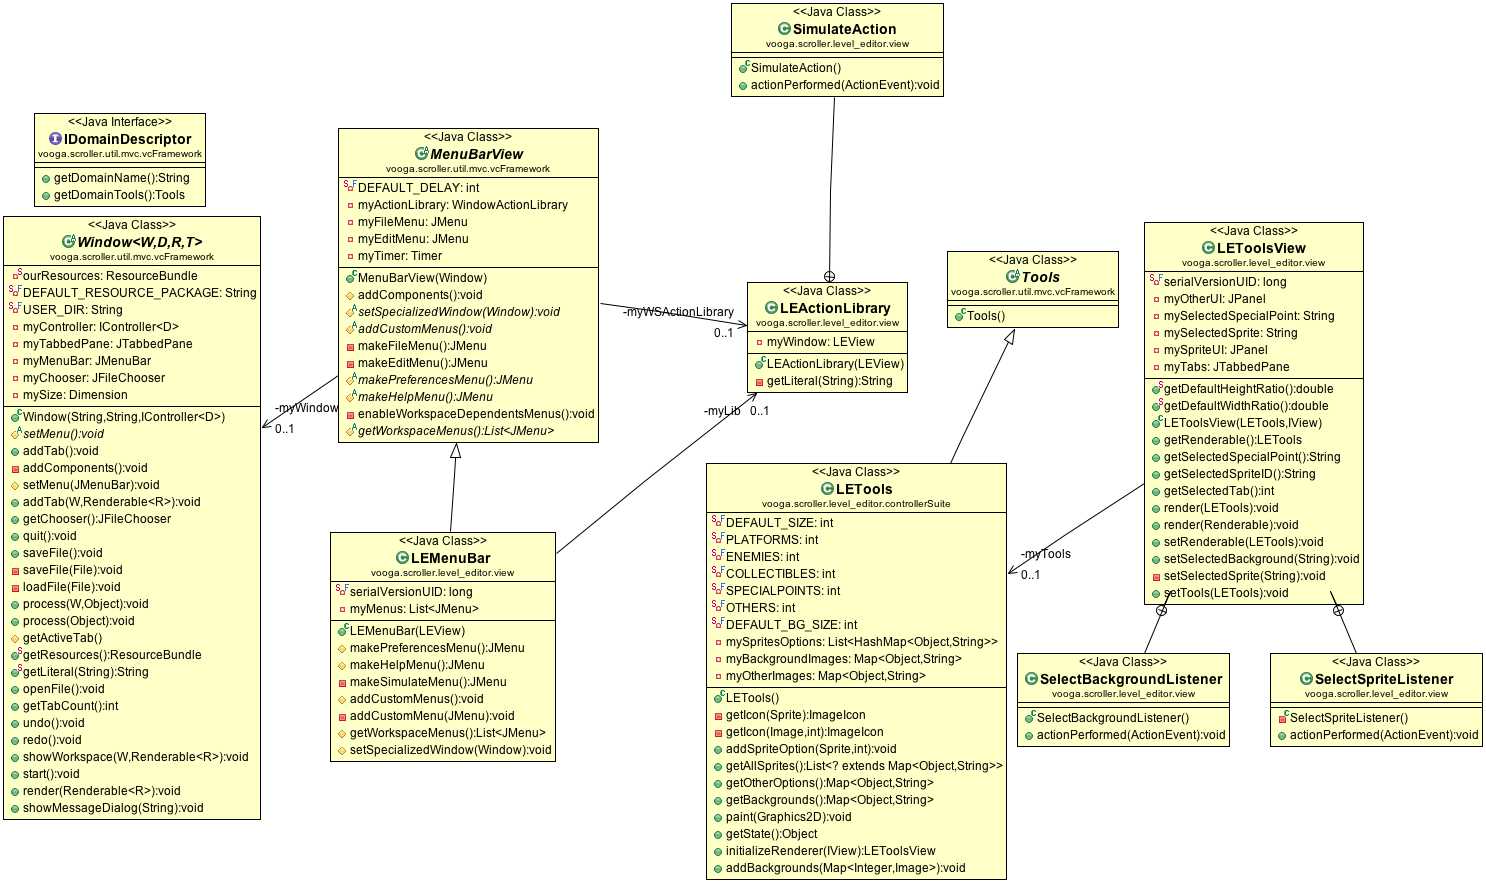
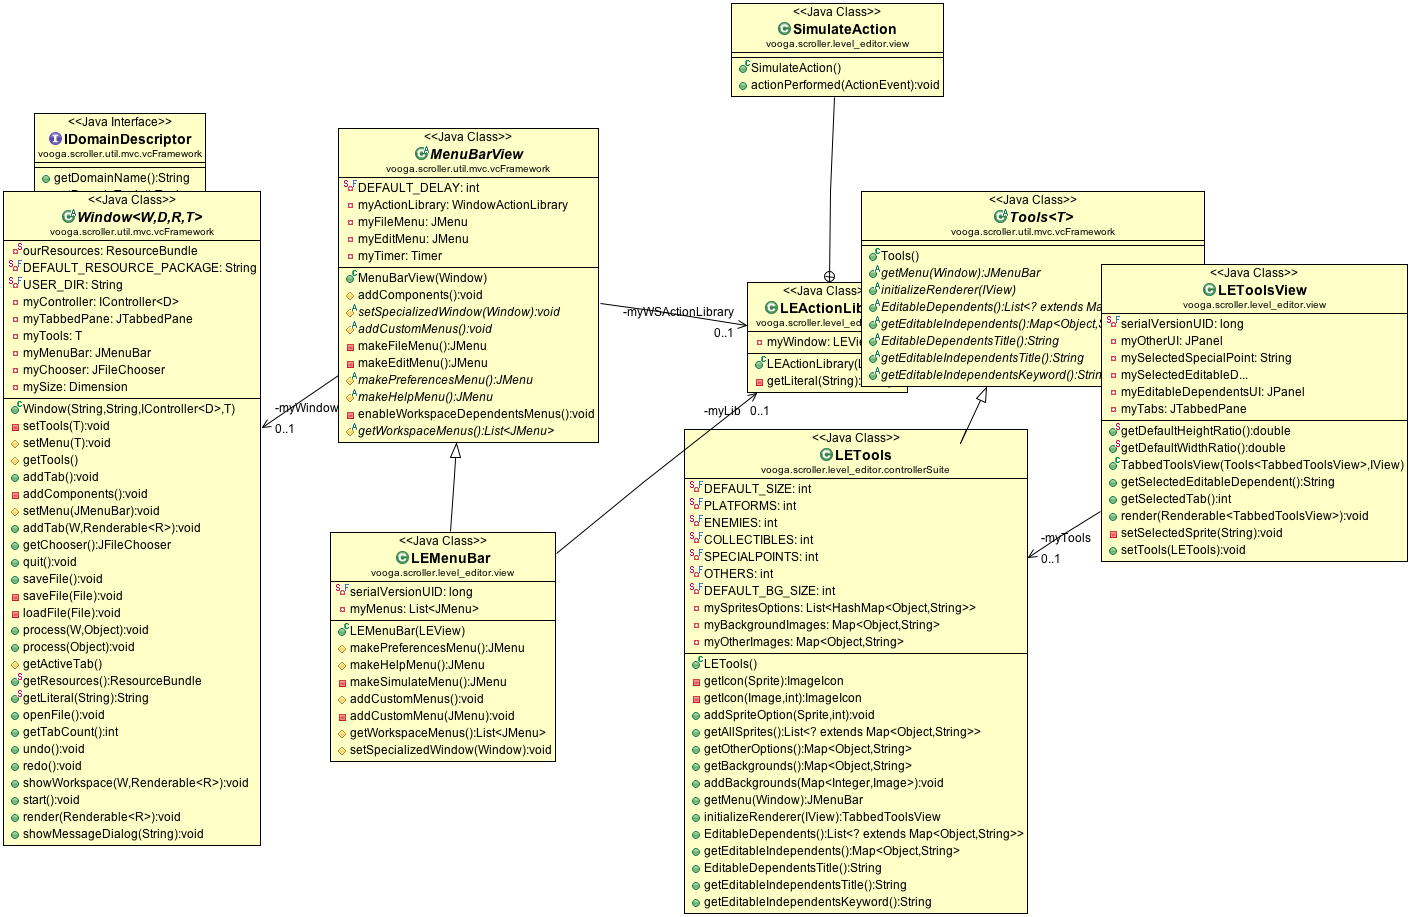
more refactoring and fixed a bug in addPlayer to model

diff --git a/src/vooga/scroller/level_editor/view/TabbedToolsView.java b/src/vooga/scroller/level_editor/view/TabbedToolsView.java
@@ -1,0 +1,155 @@
+package vooga.scroller.level_editor.view;
+
+
+import java.awt.event.ActionEvent;
+import java.awt.event.ActionListener;
+import java.util.Map;
+import javax.swing.BoxLayout;
+import javax.swing.JPanel;
+import javax.swing.JTabbedPane;
+import vooga.scroller.level_editor.controllerSuite.LETools;
+import vooga.scroller.util.Renderable;
+import vooga.scroller.util.Renderer;
+import vooga.scroller.util.mvc.IView;
+import vooga.scroller.util.mvc.vcFramework.Tools;
+import vooga.scroller.util.mvc.vcFramework.WindowComponent;
+import vooga.scroller.viewUtil.EasyGridFactory;
+import vooga.scroller.viewUtil.RadioGroup;
+
+
+/**
+ * EditorView is responsible for presenting editing tools to the user.
+ * It provides a UI for the user to select various kind of sprites or
+ * environment elements and add them to the actual level being edited.
+ * 
+ * @author Dagbedji Fagnisse
+ * 
+ */
+public class TabbedToolsView extends 
+    WindowComponent<TabbedToolsView> 
+    implements Renderer<Tools<TabbedToolsView>>{
+
+    public class EditableIndependentsListener implements ActionListener {
+        String myKeyword;
+        EditableIndependentsListener(String s) {
+            myKeyword = s;
+        }
+        
+        @Override
+        public void actionPerformed (ActionEvent e) {
+            process(myKeyword + " " + e.getActionCommand());
+        }
+
+    }
+
+    private class SelectEditableDependentsListener implements ActionListener {
+
+        @Override
+        public void actionPerformed (ActionEvent e) {
+            setSelectedEditableDependent(e.getActionCommand());
+        }
+
+    }
+
+    private static final long serialVersionUID = 1L;
+
+    public static double getDefaultHeightRatio () {
+        return LevelEditing.VIEW_CONSTANTS.DEFAULT_TOOLSVIEW_HEIGHT_RATIO;
+    }
+
+    public static double getDefaultWidthRatio () {
+        return LevelEditing.VIEW_CONSTANTS.DEFAULT_TOOLSVIEW_WIDTH_RATIO;
+    }
+
+    private JPanel myIndependentsUI;
+
+    private String mySelectedEditableDependent;
+    private JPanel myEditableDependentsUI;
+
+    private JTabbedPane myTabs;
+
+    private Tools<TabbedToolsView> myTools;
+
+    public TabbedToolsView (Tools<TabbedToolsView> leTools, IView parent) {
+        super(parent, getDefaultWidthRatio(), getDefaultHeightRatio());
+        myTabs = new JTabbedPane();
+        myEditableDependentsUI = new JPanel();
+        myEditableDependentsUI.setLayout(new BoxLayout(myEditableDependentsUI, BoxLayout.PAGE_AXIS));
+        myIndependentsUI = new JPanel();
+        render(leTools);
+    }
+
+    public String getSelectedEditableDependent () {
+        return mySelectedEditableDependent;
+    }
+
+    @Override
+    public void render (Renderable<TabbedToolsView> r) { // TODO - Should not really be used/needed
+        if (r instanceof Tools) {
+            Tools<TabbedToolsView> t = (Tools<TabbedToolsView>) r;
+            render(t);
+        }
+    }
+    
+    public void render (Tools<TabbedToolsView> tools) {
+        myTools = tools;
+//        mySpriteUI.setLayout(new SpringLayout());
+        for (Map<Object, String> m : myTools.EditableDependents()) {
+            if (m.size()>0) {
+            JPanel ed_dep_Buttons = new RadioGroup(this.getSize(), 
+                                                   new SelectEditableDependentsListener(),
+                                                   m);
+            myEditableDependentsUI.add(ed_dep_Buttons);
+            }
+        }
+
+//        myOtherUI.setLayout(new GridLayout());
+        JPanel independentsUI = new RadioGroup(this.getSize(), 
+                                               new EditableIndependentsListener(
+                                               myTools.getEditableIndependentsKeyword()),
+                                               myTools.getEditableIndependents());
+        myIndependentsUI.add(independentsUI);
+        myTabs.add(myEditableDependentsUI, myTools.EditableDependentsTitle());
+        myTabs.add(myIndependentsUI, myTools.getEditableIndependentsTitle());
+        EasyGridFactory.layout(this, myTabs);
+    }
+
+    private void setSelectedEditableDependent (String spriteID) {
+        mySelectedEditableDependent = spriteID;
+    }
+
+    public void setTools (LETools t) {
+        myTools = t;
+    }
+
+    @Override
+    public void setRenderable (Tools<TabbedToolsView> tools) {
+        // TODO Auto-generated method stub
+        myTools = tools;
+//      mySpriteUI.setLayout(new SpringLayout());
+      for (Map<Object, String> m : myTools.EditableDependents()) {
+          if (m.size()>0) {
+          JPanel ed_dep_Buttons = new RadioGroup(this.getSize(), 
+                                                 new SelectEditableDependentsListener(),
+                                                 m);
+          myEditableDependentsUI.add(ed_dep_Buttons);
+          }
+      }
+
+//      myOtherUI.setLayout(new GridLayout());
+      JPanel independentsUI = new RadioGroup(this.getSize(), 
+                                             new EditableIndependentsListener(
+                                             myTools.getEditableIndependentsKeyword()),
+                                             myTools.getEditableIndependents());
+      myIndependentsUI.add(independentsUI);
+      myTabs.add(myEditableDependentsUI, myTools.EditableDependentsTitle());
+      myTabs.add(myIndependentsUI, myTools.getEditableIndependentsTitle());
+      EasyGridFactory.layout(this, myTabs);
+    }
+
+    @Override
+    public Tools<TabbedToolsView> getRenderable () {
+        return myTools;
+    }
+
+}

diff --git a/src/vooga/scroller/level_editor/controllerSuite/LETools.java b/src/vooga/scroller/level_editor/controllerSuite/LETools.java
@@ -8,10 +8,12 @@ import java.util.List;
 import java.util.Map;
 import javax.swing.ImageIcon;
 import javax.swing.JMenuBar;
+import javax.swing.JToggleButton;
 import vooga.scroller.level_editor.StartPoint;
+import vooga.scroller.level_editor.commands.CommandConstants;
 import vooga.scroller.level_editor.view.LEActionLibrary;
 import vooga.scroller.level_editor.view.LEMenuBar;
-import vooga.scroller.level_editor.view.LEToolsView;
+import vooga.scroller.level_editor.view.TabbedToolsView;
 import vooga.scroller.level_editor.view.LEView;
 import vooga.scroller.level_management.IDoor;
 import vooga.scroller.sprites.interfaces.ICollectible;
@@ -33,7 +35,7 @@ import vooga.scroller.util.mvc.vcFramework.WorkspaceView;
  * @author Dagbedji Fagnisse
  * 
  */
-public class LETools extends Tools<LEToolsView> {
+public class LETools extends Tools<TabbedToolsView> {
 
     private static final int DEFAULT_SIZE = 40;
     private static final int PLATFORMS = 0;
@@ -139,16 +141,33 @@ public class LETools extends Tools<LEToolsView> {
     }
 
     @Override
-    public LEToolsView initializeRenderer (IView parent) {
-        return new LEToolsView(this, parent);
+    public TabbedToolsView initializeRenderer (IView parent) {
+        return new TabbedToolsView(this, parent);
     }
 
-    // public void addBackgrounds (Map<Integer, Image> map) {
-    // for (Integer key : map.keySet()) {
-    // myBackgroundImages
-    // .put(new ImageIcon(map.get(key).getScaledInstance(100, 100, Image.SCALE_SMOOTH)),
-    // "" + key);
-    // }
-    // }
+    @Override
+    public List<? extends Map<Object, String>> EditableDependents () {
+        return getAllSprites();
+    }
+
+    @Override
+    public Map<Object, String> getEditableIndependents () {
+        return getBackgrounds();
+    }
+
+    @Override
+    public String EditableDependentsTitle () {
+        return "Sprites";
+    }
+
+    @Override
+    public String getEditableIndependentsTitle () {
+        return "Other";
+    }
+
+    @Override
+    public String getEditableIndependentsKeyword () {
+        return CommandConstants.CHANGE_BACKGROUND;
+    }
 
 }

diff --git a/src/vooga/scroller/level_editor/view/LEWorkspaceView.java b/src/vooga/scroller/level_editor/view/LEWorkspaceView.java
@@ -30,10 +30,9 @@ public class LEWorkspaceView extends WorkspaceView<LevelEditing> implements Rend
      */
     private static final long serialVersionUID = 1L;
     private LEGridView myGridView;
-    private LEToolsView myToolsView;
+    private TabbedToolsView myToolsView;
     private JScrollPane myLevelGridScroller;
     private JScrollPane myToolsScroller;
-    private static LETools ourTools;
 
     /**
      * Create a Workspace with the specified host, id, and renderable
@@ -43,7 +42,7 @@ public class LEWorkspaceView extends WorkspaceView<LevelEditing> implements Rend
      * @param r - Renderable to be loaded in this workspace.
      */
     public LEWorkspaceView (LEView host, int id, 
-                            Renderable<LEGridView> grid, Tools<LEToolsView> tools) {
+                            Renderable<LEGridView> grid, Tools<TabbedToolsView> tools) {
         super(id, host);
         myGridView = grid.initializeRenderer(this);
         myToolsView = tools.initializeRenderer(this);
@@ -61,7 +60,7 @@ public class LEWorkspaceView extends WorkspaceView<LevelEditing> implements Rend
         if (isn instanceof String) {
             String cmd = (String) isn;
             if (getCommand(cmd).equals(CommandConstants.CREATE_SPRITE)) {
-                cmd = cmd + CommandConstants.SPACE + myToolsView.getSelectedSpriteID();
+                cmd = cmd + CommandConstants.SPACE + myToolsView.getSelectedEditableDependent();
             }
             super.process(cmd);
         }
@@ -74,10 +73,6 @@ public class LEWorkspaceView extends WorkspaceView<LevelEditing> implements Rend
         return cmd.split(CommandConstants.SPACE)[0];
     }
 
-    // TODO - Good design choice??
-    public static void setTools (Tools t) {
-        ourTools = (LETools) t;
-    }
 
     public boolean isValidForSimulation () {
         return myGridView.isValidForSimulation();

diff --git a/src/vooga/scroller/util/mvc/vcFramework/Tools.java b/src/vooga/scroller/util/mvc/vcFramework/Tools.java
@@ -1,7 +1,10 @@
 package vooga.scroller.util.mvc.vcFramework;
 
+import java.util.List;
+import java.util.Map;
 import javax.swing.JMenuBar;
-import vooga.scroller.level_editor.view.LEToolsView;
+import javax.swing.JToggleButton;
+import vooga.scroller.level_editor.view.TabbedToolsView;
 import vooga.scroller.util.mvc.IView;
 
 /**
@@ -18,4 +21,13 @@ public abstract class Tools<T extends WindowComponent> {
 
     public abstract T initializeRenderer (IView parent);
 
+    public abstract List<? extends Map<Object, String>> EditableDependents ();
+
+    public abstract Map<Object, String> getEditableIndependents ();
+
+    public abstract String EditableDependentsTitle ();
+
+    public abstract String getEditableIndependentsTitle ();
+
+    public abstract String getEditableIndependentsKeyword ();
 }

diff --git a/src/vooga/scroller/view/GameView.java b/src/vooga/scroller/view/GameView.java
@@ -50,8 +50,6 @@ public class GameView extends JComponent {
     private Point myLastMousePosition;
     // MULTIPLE KEY SUPPORT
     private Set<Integer> myKeys;
-    // Player
-    private Player myPlayer;
     private ScrollingManager myScrollManager;
     private boolean win = false;
 

diff --git a/src/vooga/scroller/util/mvc/vcFramework/WindowComponent.java b/src/vooga/scroller/util/mvc/vcFramework/WindowComponent.java
@@ -15,7 +15,7 @@ import vooga.scroller.util.mvc.IView;
  *
  */
 @SuppressWarnings("serial")
-public abstract class WindowComponent extends JPanel implements IView {
+public abstract class WindowComponent<R> extends JPanel implements IView<R> {
 
     private IView myResponsible;
 

diff --git a/src/vooga/scroller/model/ScrollerGame.java b/src/vooga/scroller/model/ScrollerGame.java
@@ -70,7 +70,6 @@ public abstract class ScrollerGame extends Game {
     
     private void makeModel() {
         myModel = new Model(myDisplay, myScrollingManager, myPlayer, myLevelsFilePaths);
-        myModel.addPlayerToLevel();
         myDisplay.setModel(myModel);
     }
 

diff --git a/src/vooga/scroller/model/Model.java b/src/vooga/scroller/model/Model.java
@@ -53,6 +53,7 @@ public class Model {
     public Model (GameView gameView, ScrollingManager sm, Player player, Level ...levels) {
         this(gameView, sm, player);
         myLevelManager = initializeLevelManager(levels);
+        addPlayerToLevel();
     }
     
     
